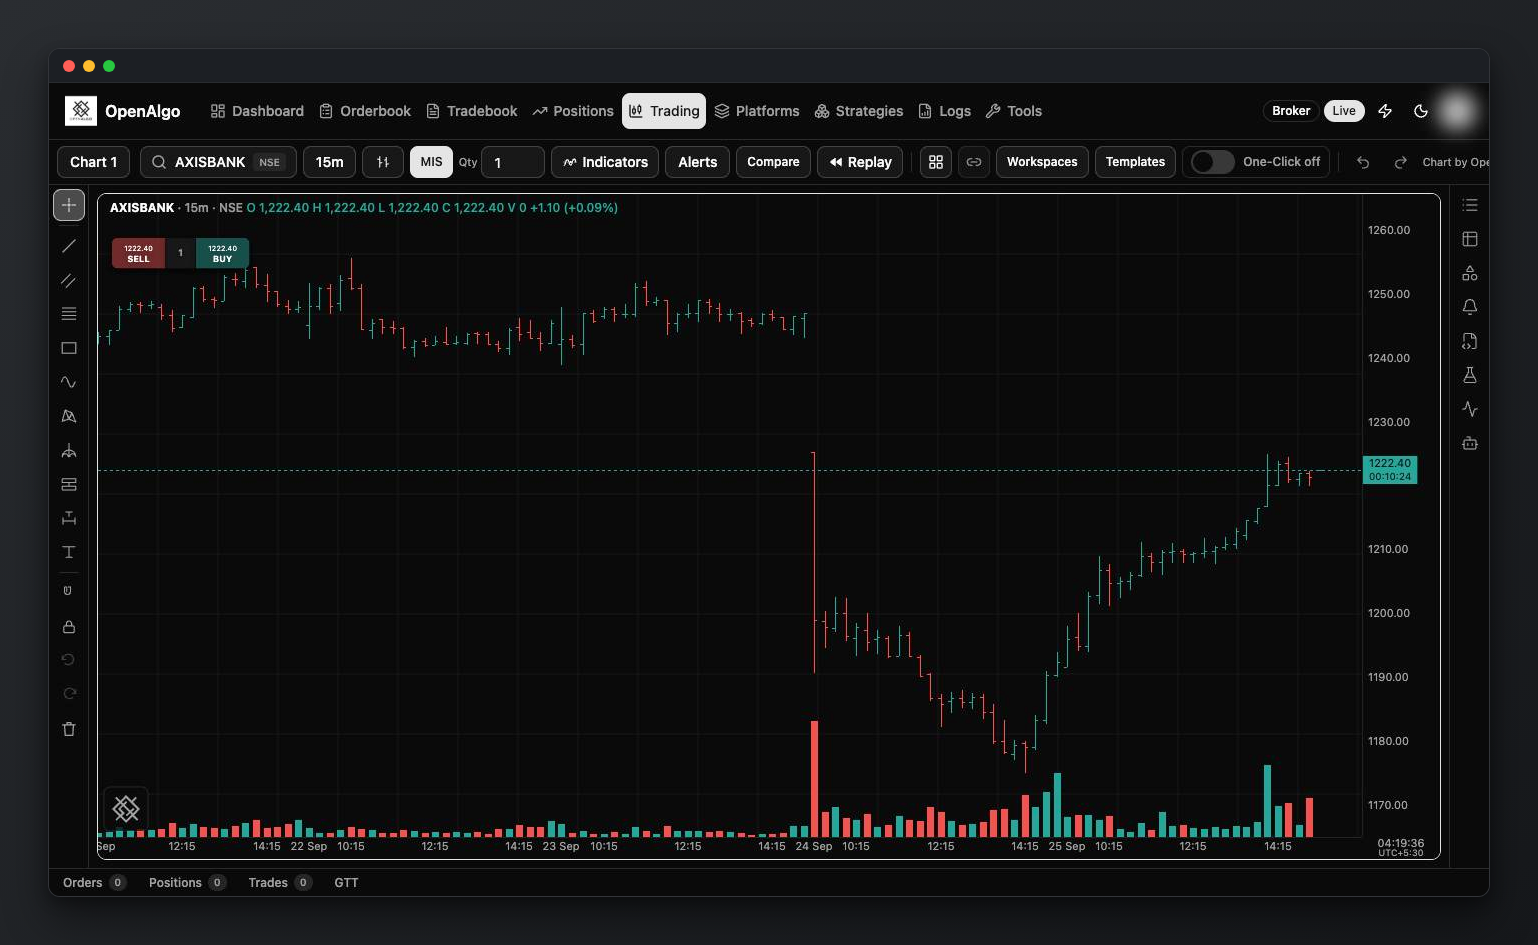
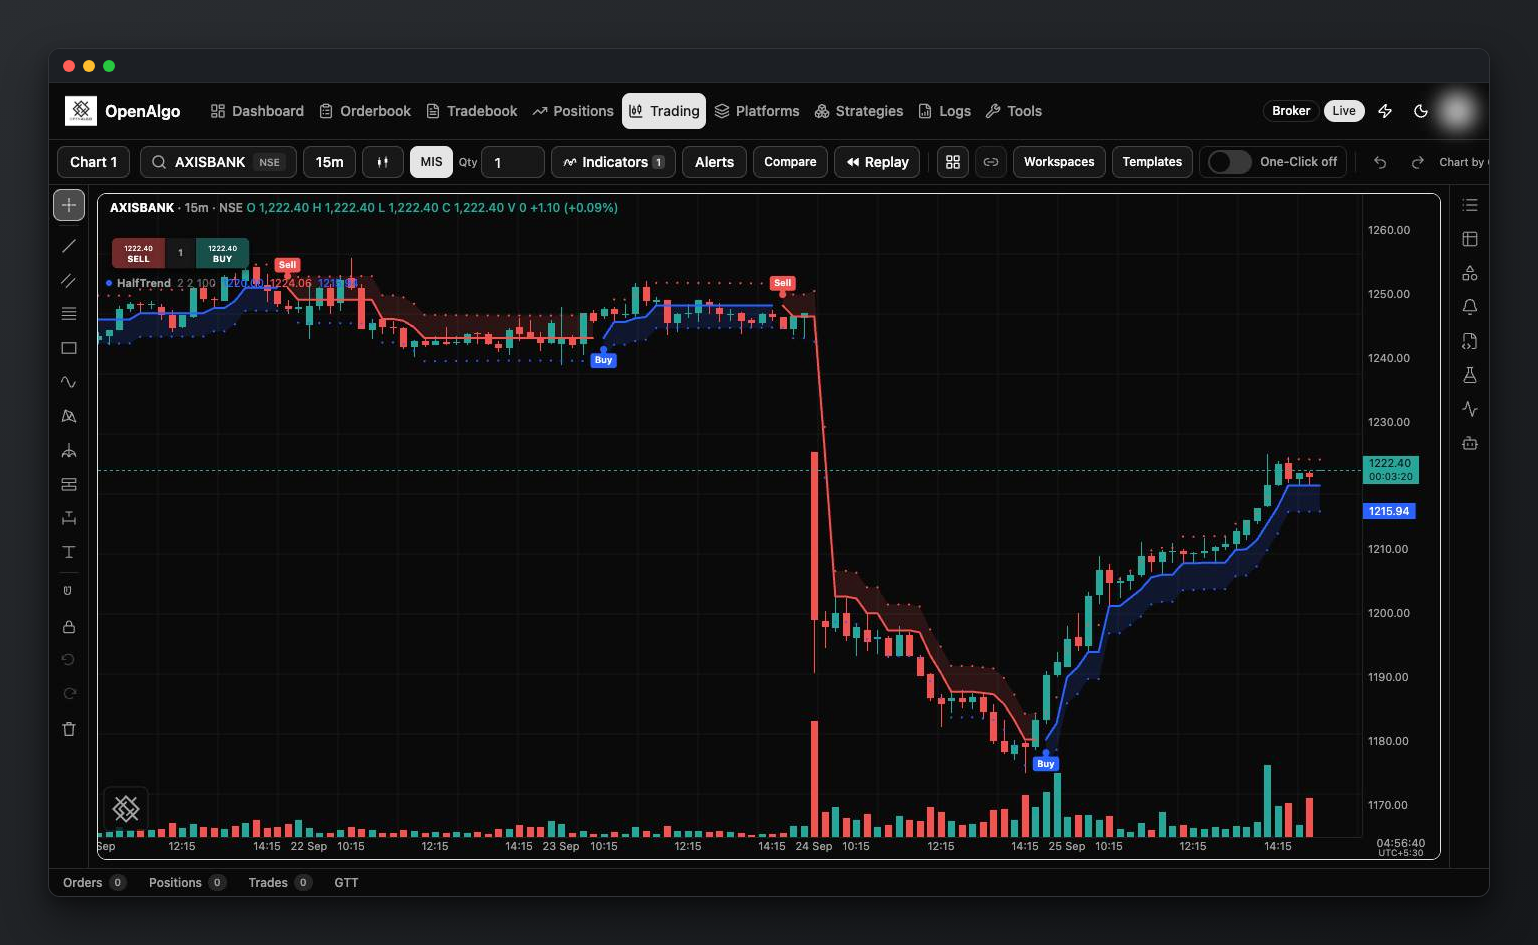
docs: trading terminal screenshot with AXISBANK candles and HalfTrend

diff --git a/README.md b/README.md
@@ -95,7 +95,7 @@ Neither workflow places or modifies orders. See [Portfolio Backtester and Analyz
 
 The `/trading` terminal provides seven persisted layouts, from a single chart to an eight-chart `4×2` grid. Each pane supports its own symbol, interval, chart type, indicators, drawings, history backfill, market depth, and order entry while sharing one drawing toolbar and the application's real-time market-data connection.
 
-<figure><img src=".gitbook/assets/openalgo-ui-trading-terminal.png" alt="Chart trading terminal with candlestick chart, drawing tools and order widget"><figcaption></figcaption></figure>
+<figure><img src=".gitbook/assets/openalgo-ui-trading-terminal.png" alt="Chart trading terminal showing AXISBANK 15-minute candles with the HalfTrend indicator and its buy and sell signals"><figcaption></figcaption></figure>
 
 See [Chart Trading Terminal](new-features/trading-terminal.md).
 

diff --git a/new-features/trading-terminal.md b/new-features/trading-terminal.md
@@ -2,7 +2,7 @@
 
 The `/trading` route is OpenAlgo's multi-chart trading workspace. It combines historical and live market data, chart analysis, drawings, market depth, and order entry in one React interface.
 
-<figure><img src="../.gitbook/assets/openalgo-ui-trading-terminal.png" alt="Chart trading terminal with candlestick chart, drawing tools and order widget"><figcaption></figcaption></figure>
+<figure><img src="../.gitbook/assets/openalgo-ui-trading-terminal.png" alt="Chart trading terminal showing AXISBANK 15-minute candles with the HalfTrend indicator and its buy and sell signals"><figcaption></figcaption></figure>
 
 ## Layouts and State
 
